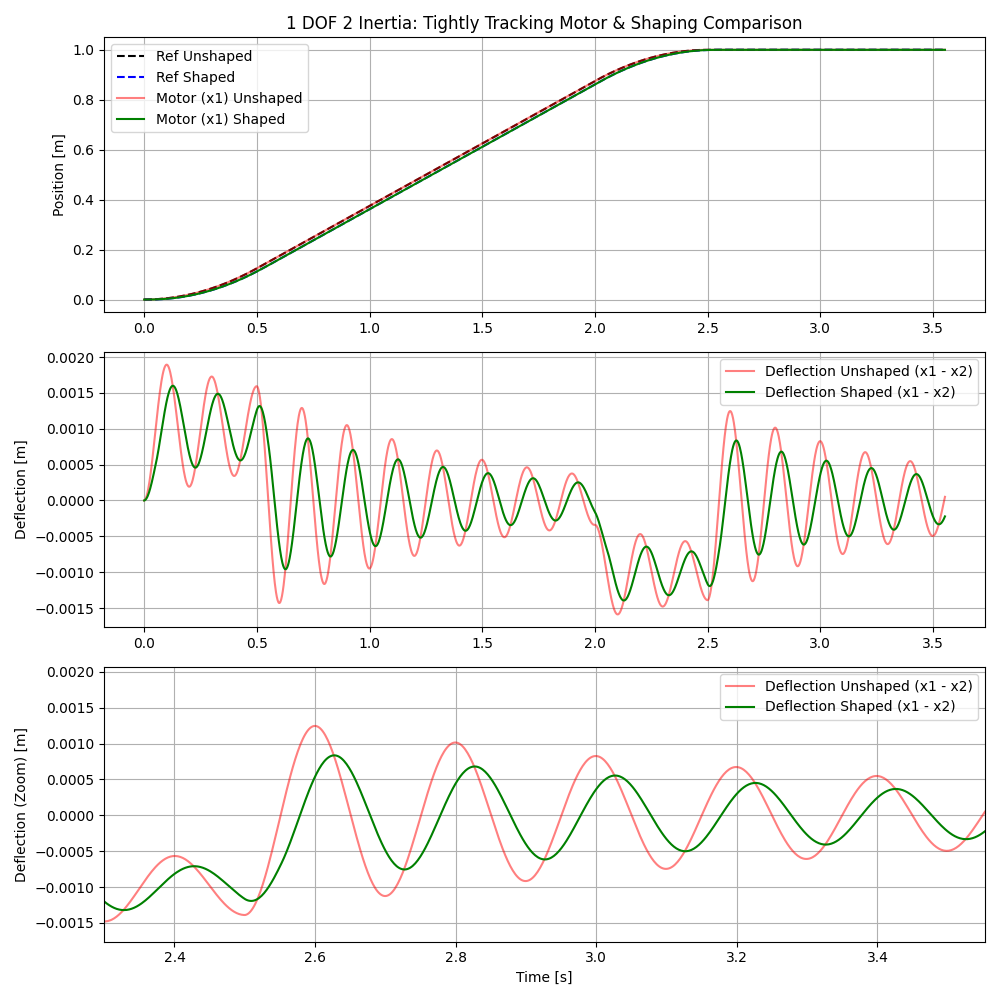
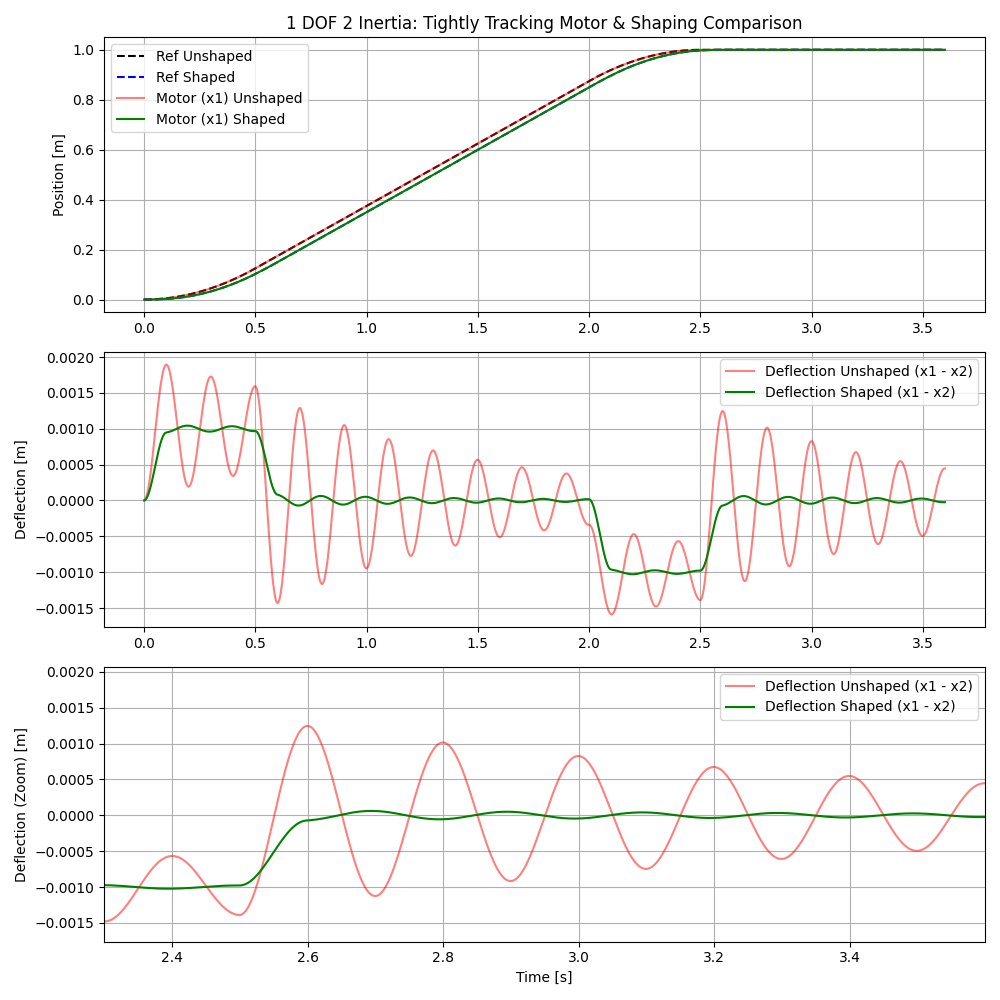
変更

diff --git a/work/src/vibration_test/class/2dof_2inertia_inverse.py b/work/src/vibration_test/class/2dof_2inertia_inverse.py
@@ -1,0 +1,133 @@
+import numpy as np
+import matplotlib.pyplot as plt
+from scipy.integrate import solve_ivp
+import scipy.signal as signal
+from scipy.interpolate import interp1d
+
+# パラメータ設定
+mt = 7.0     # 移動体全体の質量
+mb = 50.0    # 土台質量
+Kb = 20000.0 # 土台の大地とのバネ定数
+Cb = 200.0   # 土台の大地との粘性係数
+
+# 制御ゲイン
+Kp = 800000.0
+Kd = 8000.0
+
+# 5次多項式軌道プロファイルパラメータ
+target_pos = 1.0
+T = 2.0
+sim_time = T + 2.0
+
+def get_ideal_trajectory_array(times):
+    x_arr, v_arr, a_arr = np.zeros_like(times), np.zeros_like(times), np.zeros_like(times)
+    for i, t in enumerate(times):
+        if t <= 0:
+            pass
+        elif t >= T:
+            x_arr[i] = target_pos
+        else:
+            tau = t / T
+            x_arr[i] = target_pos * (10*tau**3 - 15*tau**4 + 6*tau**5)
+            v_arr[i] = (target_pos / T) * (30*tau**2 - 60*tau**3 + 30*tau**4)
+            a_arr[i] = (target_pos / T**2) * (60*tau - 180*tau**2 + 120*tau**3)
+    return x_arr, v_arr, a_arr
+
+def get_ideal_trajectory_scalar(t):
+    if t <= 0: return 0.0, 0.0, 0.0
+    elif t >= T: return target_pos, 0.0, 0.0
+    tau = t / T
+    x = target_pos * (10*tau**3 - 15*tau**4 + 6*tau**5)
+    v = (target_pos / T) * (30*tau**2 - 60*tau**3 + 30*tau**4)
+    a = (target_pos / T**2) * (60*tau - 180*tau**2 + 120*tau**3)
+    return x, v, a
+
+# オフラインで土台の「予想される揺れ xb(t)」を計算しておく
+t_sim_arr = np.linspace(0, sim_time, 5000)
+x_id_arr, v_id_arr, a_id_arr = get_ideal_trajectory_array(t_sim_arr)
+
+# mb * ab + Cb * vb + Kb * xb = -mt * a_id
+sys = signal.TransferFunction([-mt], [mb, Cb, Kb])
+_, xb_id_arr, _ = signal.lsim(sys, U=a_id_arr, T=t_sim_arr)
+
+# 微分による vb, abの推定
+dt = t_sim_arr[1] - t_sim_arr[0]
+vb_id_arr = np.gradient(xb_id_arr, dt)
+ab_id_arr = np.gradient(vb_id_arr, dt)
+
+xb_interp = interp1d(t_sim_arr, xb_id_arr, fill_value=0.0, bounds_error=False)
+vb_interp = interp1d(t_sim_arr, vb_id_arr, fill_value=0.0, bounds_error=False)
+ab_interp = interp1d(t_sim_arr, ab_id_arr, fill_value=0.0, bounds_error=False)
+
+def get_inverse_trajectory(t):
+    x_id, v_id, a_id = get_ideal_trajectory_scalar(t)
+    xb = xb_interp(t)
+    vb = vb_interp(t)
+    ab = ab_interp(t)
+    
+    # 絶対位置が x_id になるための相対位置 x_ref の逆算: x_abs = xb + x_ref = x_id => x_ref = x_id - xb
+    x_inv = x_id - xb
+    v_inv = v_id - vb
+    a_inv = a_id - ab
+    return float(x_inv), float(v_inv), float(a_inv)
+
+def equations_uncompensated(t, y):
+    xb, vb, xr, vr = y
+    x_ref, v_ref, a_ref = get_ideal_trajectory_scalar(t)
+    F = mt * a_ref + Kp * (x_ref - xr) + Kd * (v_ref - vr)
+    ab = (-F - Kb * xb - Cb * vb) / mb
+    ar = F / mt - ab
+    return [vb, ab, vr, ar]
+
+def equations_inverse(t, y):
+    xb, vb, xr, vr = y
+    x_ref, v_ref, a_ref = get_inverse_trajectory(t)
+    F = mt * a_ref + Kp * (x_ref - xr) + Kd * (v_ref - vr)
+    ab = (-F - Kb * xb - Cb * vb) / mb
+    ar = F / mt - ab
+    return [vb, ab, vr, ar]
+
+# シミュレーション実行
+t_eval = np.linspace(0, sim_time, 3000)
+y0 = [0, 0, 0, 0]
+
+sol_uncomp = solve_ivp(equations_uncompensated, (0, sim_time), y0, t_eval=t_eval, method='RK45')
+sol_inv = solve_ivp(equations_inverse, (0, sim_time), y0, t_eval=t_eval, method='RK45')
+
+# グラフ描画
+xid_all = [get_ideal_trajectory_scalar(t)[0] for t in sol_uncomp.t]
+xabs_uncomp = sol_uncomp.y[0] + sol_uncomp.y[2]
+xabs_inv = sol_inv.y[0] + sol_inv.y[2]
+
+plt.figure(figsize=(10, 10))
+plt.subplot(3, 1, 1)
+plt.plot(sol_uncomp.t, xid_all, 'k--', label='Ideal Trajectory (Abs Pos)')
+plt.plot(sol_uncomp.t, xabs_uncomp, 'r', alpha=0.5, label='Abs Pos Uncompensated')
+plt.plot(sol_inv.t, xabs_inv, 'g', label='Abs Pos Compensated')
+plt.ylabel('Position [m]')
+plt.title('2 DOF 2 Inertia: Inverse Model Compensation')
+plt.grid(True)
+plt.legend()
+
+plt.subplot(3, 1, 2)
+# 絶対位置トラッキングエラー
+err_uncomp = xabs_uncomp - xid_all
+err_inv = xabs_inv - xid_all
+plt.plot(sol_uncomp.t, err_uncomp, 'r', alpha=0.5, label='Abs Pos Err Uncomp')
+plt.plot(sol_inv.t, err_inv, 'g', label='Abs Pos Err Comp')
+plt.ylabel('Abs Pos Error [m]')
+plt.grid(True)
+plt.legend()
+
+plt.subplot(3, 1, 3)
+plt.plot(sol_uncomp.t, err_uncomp, 'r', alpha=0.5, label='Abs Pos Err Uncomp')
+plt.plot(sol_inv.t, err_inv, 'g', label='Abs Pos Err Comp')
+plt.xlim([T - 0.2, sim_time])
+plt.xlabel('Time [s]')
+plt.ylabel('Pos Error (Zoom) [m]')
+plt.grid(True)
+plt.legend()
+
+plt.tight_layout()
+plt.savefig('2dof_2inertia_inverse_result.png')
+print("Saved 2dof_2inertia_inverse_result.png")

diff --git a/work/src/vibration_test/class/2dof_3inertia_inverse.py b/work/src/vibration_test/class/2dof_3inertia_inverse.py
@@ -1,0 +1,126 @@
+import numpy as np
+import matplotlib.pyplot as plt
+from scipy.integrate import solve_ivp
+
+# パラメータ設定
+m1 = 2.0    # モータ質量
+m2 = 5.0    # テーブル質量
+m3 = 1.0    # 手先質量
+K1 = 8000.0 # モータ-テーブル間設定
+C1 = 20.0   
+K2 = 1000.0 # テーブル-手先間
+C2 = 5.0    
+
+# 制御ゲイン (モータの追従を高める)
+Kp = 800000.0
+Kd = 8000.0
+
+# 5次多項式軌道プロファイルパラメータ
+target_pos = 1.0
+T = 2.0
+sim_time = T + 2.0
+
+def get_ideal_trajectory(t):
+    """
+    5次多項式による理想的な参照軌道
+    """
+    if t <= 0:
+        return 0.0, 0.0, 0.0, 0.0, 0.0
+    elif t >= T:
+        return target_pos, 0.0, 0.0, 0.0, 0.0
+    
+    tau = t / T
+    x = target_pos * (10*tau**3 - 15*tau**4 + 6*tau**5)
+    v = (target_pos / T) * (30*tau**2 - 60*tau**3 + 30*tau**4)
+    a = (target_pos / T**2) * (60*tau - 180*tau**2 + 120*tau**3)
+    j = (target_pos / T**3) * (60 - 360*tau + 360*tau**2)
+    s = (target_pos / T**4) * (-360 + 720*tau)
+    return x, v, a, j, s
+
+def get_inverse_trajectory(t):
+    """
+    2自由度3慣性系の逆モデル
+    手先位置(x3)をx_idealに一致させるためのモータ位置(x1)指令を逆算する
+    C1, C2を無視した剛性のみでの逆モデル近似
+    """
+    x_id, v_id, a_id, j_id, s_id = get_ideal_trajectory(t)
+    
+    # x1 = x_id + ((m3/K2) + (m2+m3)/K1) * a_id + (m2*m3 / (K1*K2)) * s_id
+    coef_a = (m3 / K2) + (m2 + m3) / K1
+    coef_s = (m2 * m3) / (K1 * K2)
+    
+    x_inv = x_id + coef_a * a_id + coef_s * s_id
+    
+    # 速度指令については近似的にスナップの微分（ここでは0として省略）を使わず計算可能範囲で
+    v_inv = v_id + coef_a * j_id
+    
+    # 加速度指令も近似
+    a_inv = a_id
+    
+    return x_inv, v_inv, a_inv
+
+def equations_uncompensated(t, y):
+    x1, v1, x2, v2, x3, v3 = y
+    x_ref, v_ref, a_ref, _, _ = get_ideal_trajectory(t)
+    F = (m1 + m2 + m3) * a_ref + Kp * (x_ref - x1) + Kd * (v_ref - v1)
+    f_spring1 = K1 * (x1 - x2) + C1 * (v1 - v2)
+    f_spring2 = K2 * (x2 - x3) + C2 * (v2 - v3)
+    a1 = (F - f_spring1) / m1
+    a2 = (f_spring1 - f_spring2) / m2
+    a3 = f_spring2 / m3
+    return [v1, a1, v2, a2, v3, a3]
+
+def equations_inverse(t, y):
+    x1, v1, x2, v2, x3, v3 = y
+    x_ref, v_ref, a_ref = get_inverse_trajectory(t)
+    F = (m1 + m2 + m3) * a_ref + Kp * (x_ref - x1) + Kd * (v_ref - v1)
+    f_spring1 = K1 * (x1 - x2) + C1 * (v1 - v2)
+    f_spring2 = K2 * (x2 - x3) + C2 * (v2 - v3)
+    a1 = (F - f_spring1) / m1
+    a2 = (f_spring1 - f_spring2) / m2
+    a3 = f_spring2 / m3
+    return [v1, a1, v2, a2, v3, a3]
+
+# シミュレーション実行
+t_eval = np.linspace(0, sim_time, 3500)
+y0 = [0, 0, 0, 0, 0, 0]
+
+sol_uncomp = solve_ivp(equations_uncompensated, (0, sim_time), y0, t_eval=t_eval, method='RK45')
+sol_inv = solve_ivp(equations_inverse, (0, sim_time), y0, t_eval=t_eval, method='RK45')
+
+# グラフ描画
+xid_all = [get_ideal_trajectory(t)[0] for t in sol_uncomp.t]
+xref_inv_all = [get_inverse_trajectory(t)[0] for t in sol_inv.t]
+
+plt.figure(figsize=(10, 10))
+plt.subplot(3, 1, 1)
+plt.plot(sol_uncomp.t, xid_all, 'k--', label='Ideal Trajectory')
+plt.plot(sol_inv.t, xref_inv_all, 'b:', label='Inverse Motor Command')
+plt.plot(sol_uncomp.t, sol_uncomp.y[4], 'r', alpha=0.5, label='Hand (x3) Uncompensated')
+plt.plot(sol_inv.t, sol_inv.y[4], 'g', label='Hand (x3) Compensated')
+plt.ylabel('Position [m]')
+plt.title('2 DOF 3 Inertia: Inverse Model Compensation')
+plt.grid(True)
+plt.legend()
+
+plt.subplot(3, 1, 2)
+err_uncomp = sol_uncomp.y[4] - xid_all
+err_inv = sol_inv.y[4] - xid_all
+plt.plot(sol_uncomp.t, err_uncomp, 'r', alpha=0.5, label='Tracking Err Uncomp (Hand x3)')
+plt.plot(sol_inv.t, err_inv, 'g', label='Tracking Err Comp (Hand x3)')
+plt.ylabel('Tracking Error [m]')
+plt.grid(True)
+plt.legend()
+
+plt.subplot(3, 1, 3)
+plt.plot(sol_uncomp.t, err_uncomp, 'r', alpha=0.5, label='Tracking Err Uncomp')
+plt.plot(sol_inv.t, err_inv, 'g', label='Tracking Err Comp')
+plt.xlim([T - 0.2, sim_time])
+plt.xlabel('Time [s]')
+plt.ylabel('Tracking Err (Zoom) [m]')
+plt.grid(True)
+plt.legend()
+
+plt.tight_layout()
+plt.savefig('2dof_3inertia_inverse_result.png')
+print("Saved 2dof_3inertia_inverse_result.png")

diff --git a/work/src/vibration_test/class/1dof_2inertia_inverse.py b/work/src/vibration_test/class/1dof_2inertia_inverse.py
@@ -1,0 +1,115 @@
+import numpy as np
+import matplotlib.pyplot as plt
+from scipy.integrate import solve_ivp
+
+# パラメータ設定
+m1 = 2.0   # モータ等価質量
+m2 = 5.0   # ボールねじ(テーブル)質量
+K = 5000.0 # バネ定数
+C = 10.0   # 粘性減衰係数
+
+# 制御ゲイン (追従誤差を極力無くすために高く設定)
+Kp = 500000.0
+Kd = 5000.0
+
+# 5次多項式軌道プロファイルパラメータ
+target_pos = 1.0
+T = 2.0 # 移動時間全体 (2秒)
+sim_time = T + 2.0
+
+def get_ideal_trajectory(t):
+    """
+    5次多項式による理想的な参照軌道を生成
+    戻り値: x, v, a, j(jerk), s(snap)
+    """
+    if t <= 0:
+        return 0.0, 0.0, 0.0, 0.0, 0.0
+    elif t >= T:
+        return target_pos, 0.0, 0.0, 0.0, 0.0
+    
+    tau = t / T
+    x = target_pos * (10*tau**3 - 15*tau**4 + 6*tau**5)
+    v = (target_pos / T) * (30*tau**2 - 60*tau**3 + 30*tau**4)
+    a = (target_pos / T**2) * (60*tau - 180*tau**2 + 120*tau**3)
+    j = (target_pos / T**3) * (60 - 360*tau + 360*tau**2)
+    s = (target_pos / T**4) * (-360 + 720*tau)
+    return x, v, a, j, s
+
+def get_inverse_trajectory(t):
+    """
+    逆モデルによるモータ指令軌道の算出
+    x_inv = x_ideal + (m2 / K) * a_ideal
+    """
+    x_id, v_id, a_id, j_id, s_id = get_ideal_trajectory(t)
+    
+    # 簡略化した逆モデル(バネ反力を相殺)
+    x_inv = x_id + (m2 / K) * a_id
+    v_inv = v_id + (m2 / K) * j_id
+    a_inv = a_id + (m2 / K) * s_id
+    return x_inv, v_inv, a_inv
+
+def equations_uncompensated(t, y):
+    x1, v1, x2, v2 = y
+    x_ref, v_ref, a_ref, _, _ = get_ideal_trajectory(t)
+    # 逆モデルなし（目標軌道をそのまま指令値とする）
+    F = (m1 + m2) * a_ref + Kp * (x_ref - x1) + Kd * (v_ref - v1)
+    spring_force = K * (x1 - x2) + C * (v1 - v2)
+    a1 = (F - spring_force) / m1
+    a2 = spring_force / m2
+    return [v1, a1, v2, a2]
+
+def equations_inverse(t, y):
+    x1, v1, x2, v2 = y
+    # 逆モデル補償あり（計算された補償軌道を指令値とする）
+    x_ref, v_ref, a_ref = get_inverse_trajectory(t)
+    F = (m1 + m2) * a_ref + Kp * (x_ref - x1) + Kd * (v_ref - v1)
+    spring_force = K * (x1 - x2) + C * (v1 - v2)
+    a1 = (F - spring_force) / m1
+    a2 = spring_force / m2
+    return [v1, a1, v2, a2]
+
+# シミュレーション実行
+t_eval = np.linspace(0, sim_time, 3000)
+y0 = [0, 0, 0, 0]
+
+sol_uncomp = solve_ivp(equations_uncompensated, (0, sim_time), y0, t_eval=t_eval, method='RK45')
+sol_inv = solve_ivp(equations_inverse, (0, sim_time), y0, t_eval=t_eval, method='RK45')
+
+# グラフ描画
+xid_all = [get_ideal_trajectory(t)[0] for t in sol_uncomp.t]
+xref_inv_all = [get_inverse_trajectory(t)[0] for t in sol_inv.t]
+
+plt.figure(figsize=(10, 10))
+plt.subplot(3, 1, 1)
+plt.plot(sol_uncomp.t, xid_all, 'k--', label='Ideal Trajectory')
+plt.plot(sol_inv.t, xref_inv_all, 'b:', label='Inverse Motor Command')
+plt.plot(sol_uncomp.t, sol_uncomp.y[2], 'r', alpha=0.5, label='Table Uncompensated')
+plt.plot(sol_inv.t, sol_inv.y[2], 'g', label='Table Compensated')
+plt.ylabel('Position [m]')
+plt.title('1 DOF 2 Inertia: Inverse Model Compensation')
+plt.grid(True)
+plt.legend()
+
+plt.subplot(3, 1, 2)
+# 誤差 (理想軌道と実際のモデルのテーブル位置のズレ)
+err_uncomp = sol_uncomp.y[2] - xid_all
+err_inv = sol_inv.y[2] - xid_all
+plt.plot(sol_uncomp.t, err_uncomp, 'r', alpha=0.5, label='Tracking Err Uncompensated')
+plt.plot(sol_inv.t, err_inv, 'g', label='Tracking Err Compensated')
+plt.ylabel('Tracking Error [m]')
+plt.grid(True)
+plt.legend()
+
+plt.subplot(3, 1, 3)
+# 到達後のZoomアップ
+plt.plot(sol_uncomp.t, err_uncomp, 'r', alpha=0.5, label='Tracking Err Uncomp')
+plt.plot(sol_inv.t, err_inv, 'g', label='Tracking Err Comp')
+plt.xlim([T - 0.2, sim_time])
+plt.xlabel('Time [s]')
+plt.ylabel('Tracking Err (Zoom) [m]')
+plt.grid(True)
+plt.legend()
+
+plt.tight_layout()
+plt.savefig('1dof_2inertia_inverse_result.png')
+print("Saved 1dof_2inertia_inverse_result.png")

diff --git a/work/src/vibration_test/class/1dof_2inertia_shaping.py b/work/src/vibration_test/class/1dof_2inertia_shaping.py
@@ -8,8 +8,9 @@ m2 = 5.0   # ボールねじ(テーブル)質量
 K = 5000.0 # バネ定数
 C = 10.0   # 粘性減衰係数
 
-# 固有角振動数の計算 (減衰無視の簡易ZVシェーパ用)
-wn = np.sqrt(K * (1.0/m1 + 1.0/m2))
+# 固有角振動数の計算
+# (高ゲイン制御によりm1が拘束されるため、振動系の固有振動数はm2とKで決まる)
+wn = np.sqrt(K / m2)
 Td = np.pi / wn
 shaper = [(0.5, 0.0), (0.5, Td)]
 print(f"[1DOF 2Inertia] wn: {wn:.2f} rad/s, Delay Td: {Td:.4f} s")
